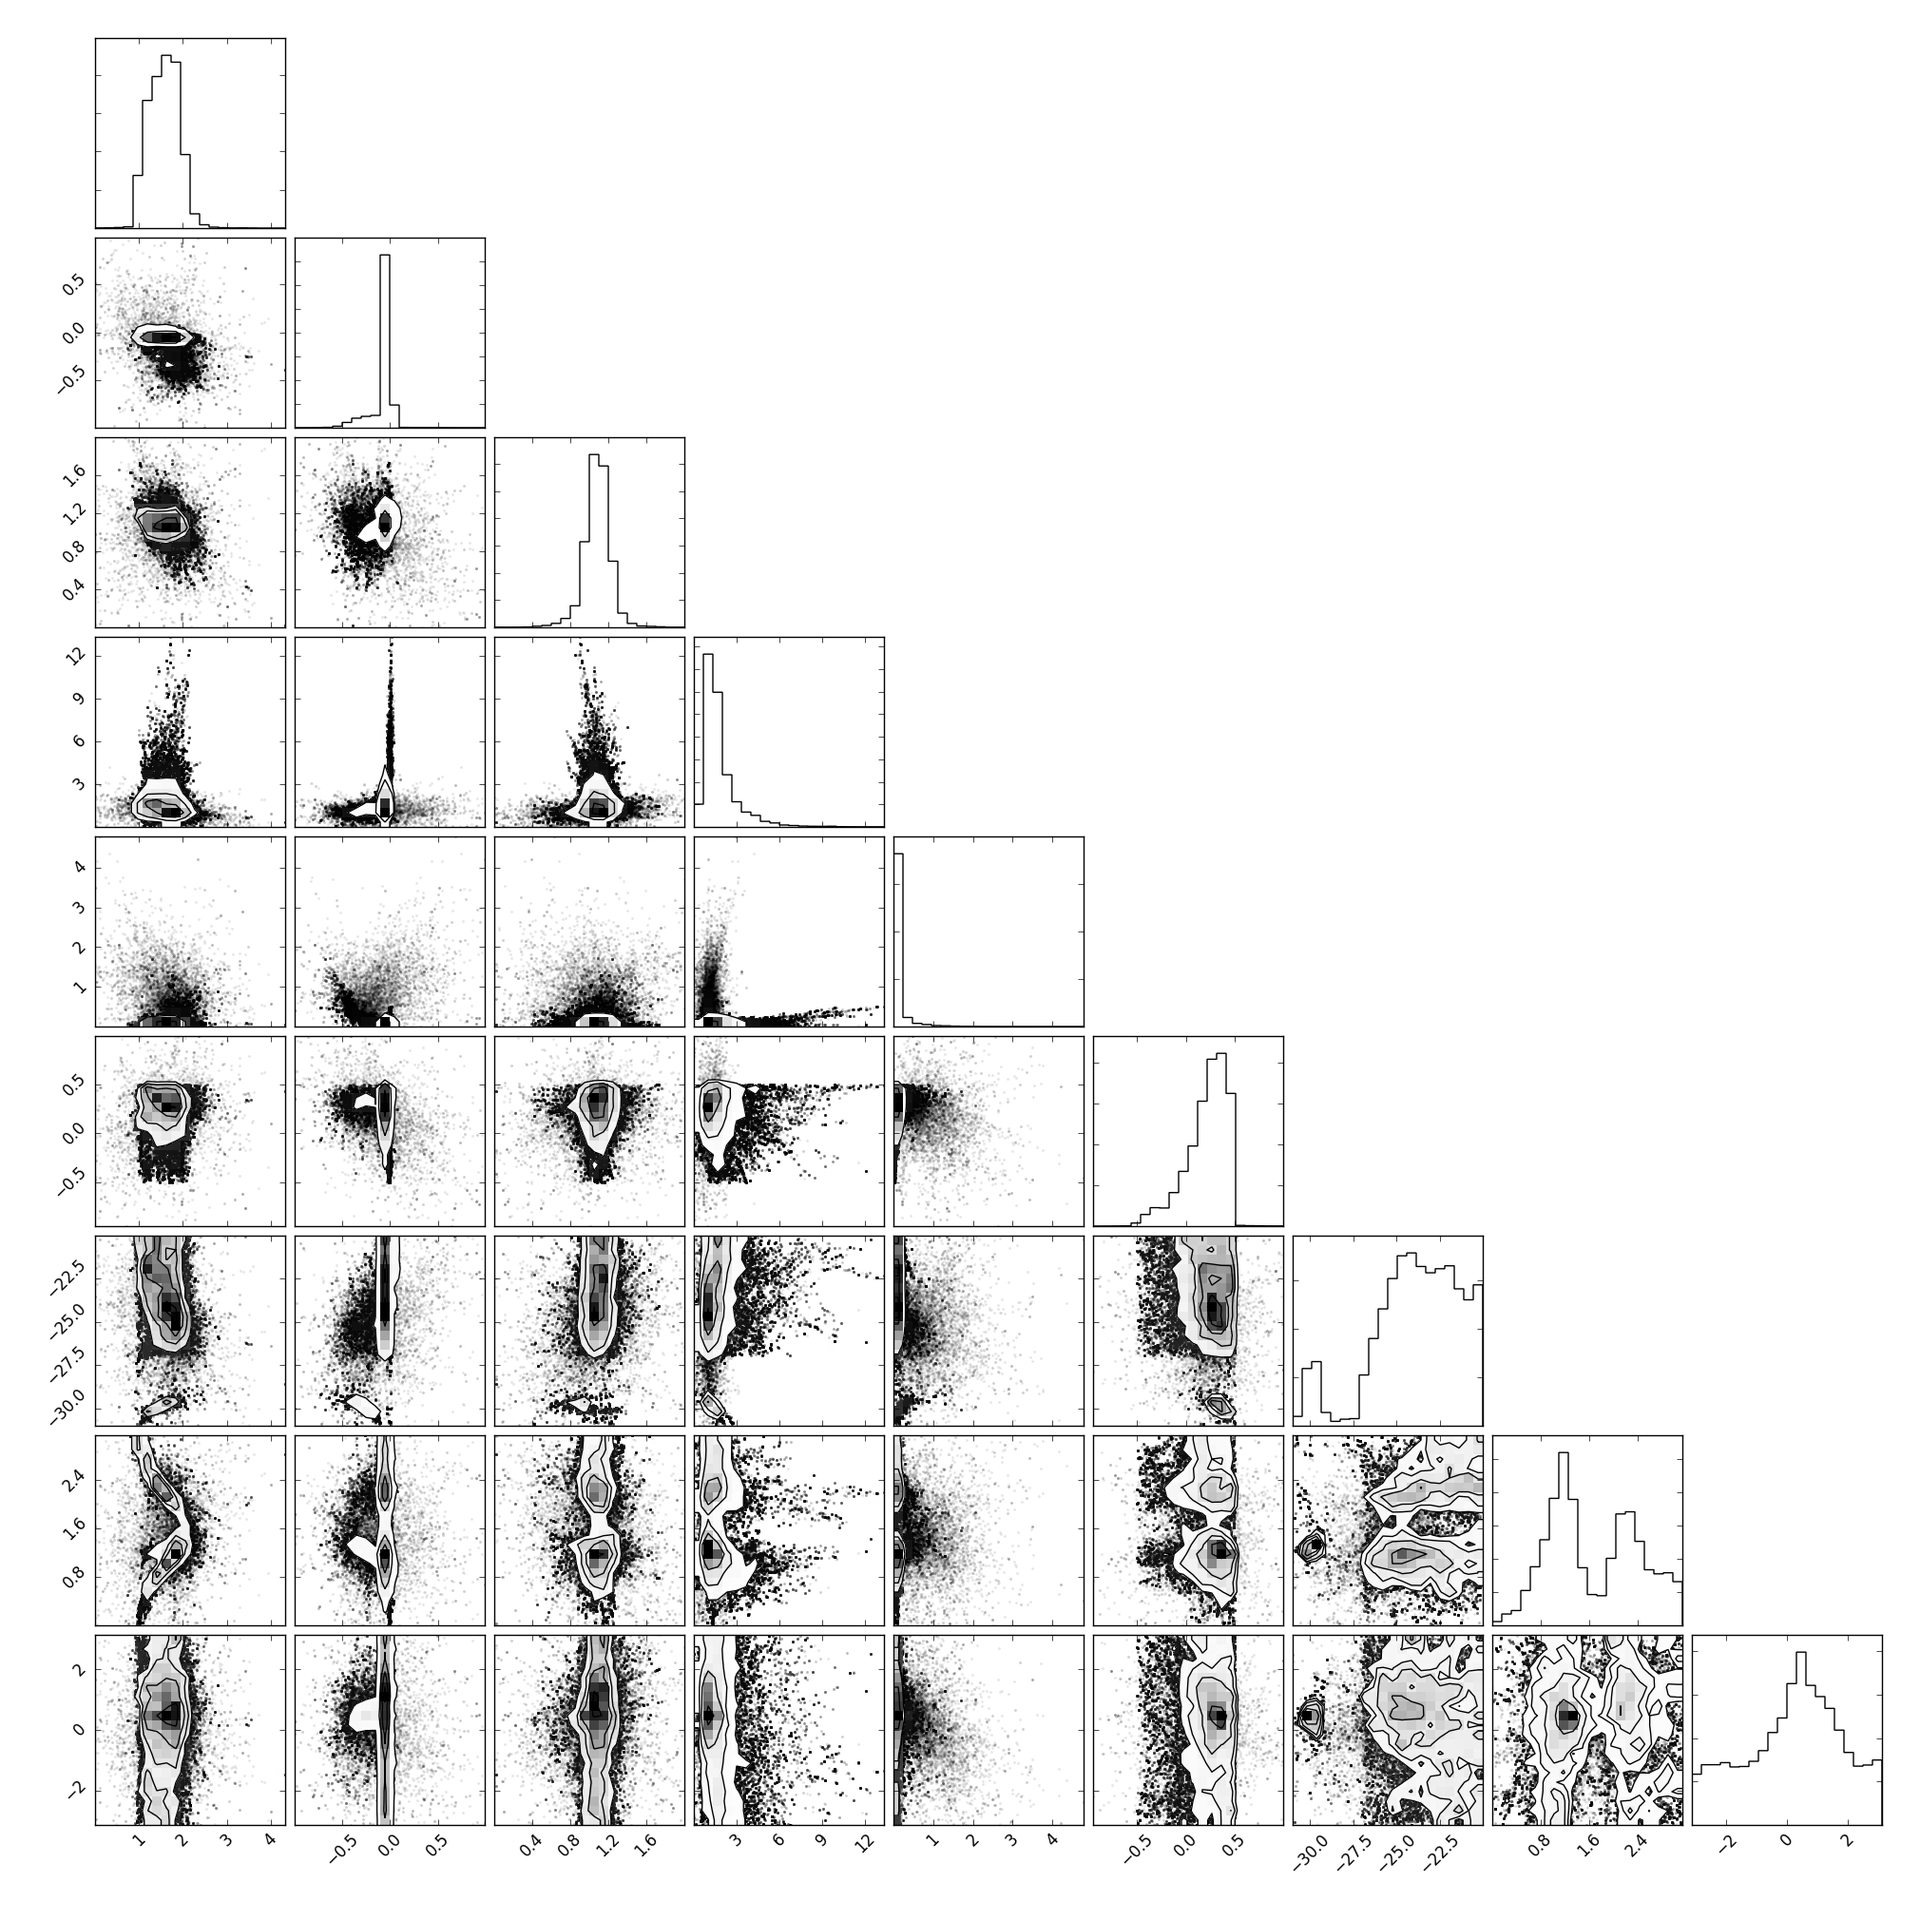
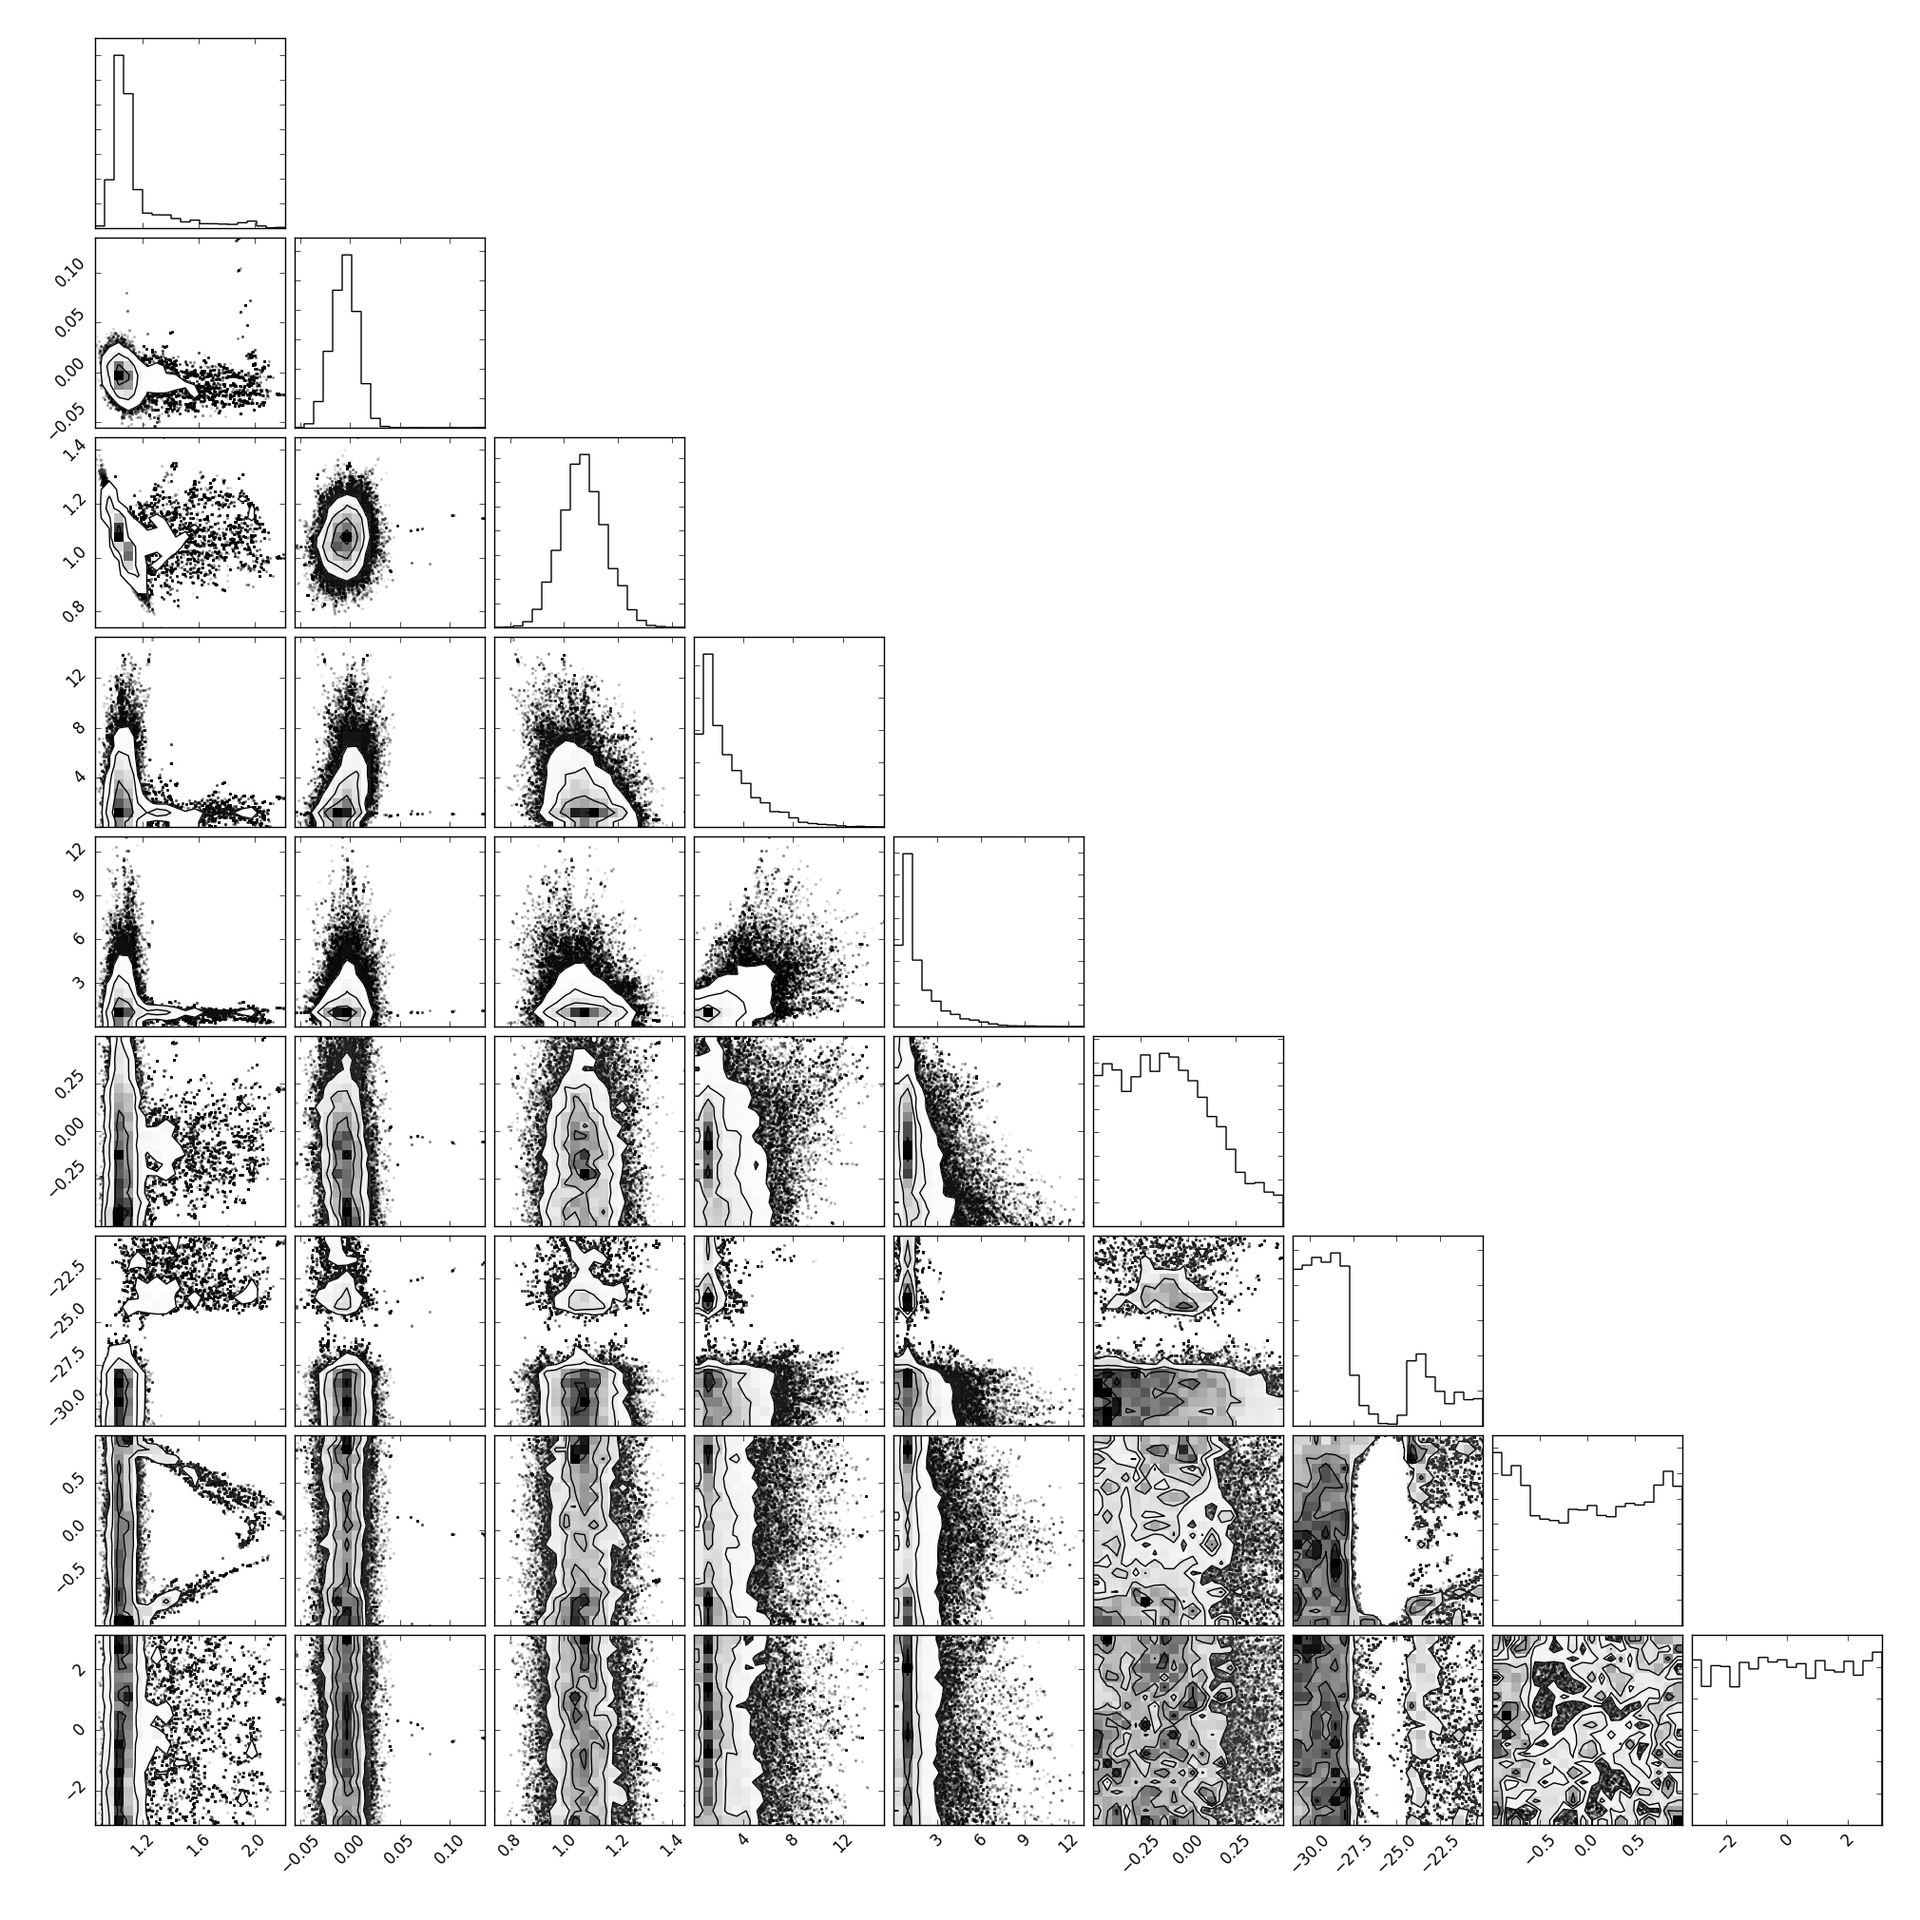
Tue May  9 02:15:51 BST 2017

Changed region(s): [[0.0312, 0.1248, 0.9045, 0.9668], [0.8109, 0.7797, 0.8421, 0.8109], [0.6238, 0.5614, 0.655, 0.5926]]

diff --git a/python/run_mcmc_full.py b/python/run_mcmc_full.py
@@ -17,10 +17,32 @@ pion_flux_path='/data/icecube/software/LVTools/data/pion_flux.h5'
 prompt_flux_path='/data/icecube/software/LVTools/data/prompt_flux.h5'
 output_file_path='/data/icecube/software/LVTools_package/LVTools/python/scan/output_'
 
+this = r'j'
+
 # constructing object
 lvsearch = lv.LVSearch(effective_area_path,events_path,chris_flux_path,kaon_flux_path,pion_flux_path,prompt_flux_path)
-lvsearch.SetEnergyExponent(2.)
+if this == r'a':
+    lvsearch.SetEnergyExponent(0.)
+if this == r'c':
+    lvsearch.SetEnergyExponent(1.)
+if this == r't':
+    lvsearch.SetEnergyExponent(2.)
+if this == r'g':
+    lvsearch.SetEnergyExponent(3.)
+if this == r's':
+    lvsearch.SetEnergyExponent(4.)
+if this == r'j':
+    lvsearch.SetEnergyExponent(5.)
 lvsearch.SetVerbose(False)
+
+terms = {
+    r'a': (-25, -18),
+    r'c': (-28, -24),
+    r't': (-33, -26),
+    r'g': (-38, -27),
+    r's': (-42, -30),
+    r'j': (-46, -33),
+}
 
 #calculate likelihood from c++
 def llhCPP(theta):
@@ -28,9 +50,15 @@ def llhCPP(theta):
     t = deepcopy(theta)
     # t[:-3] = np.array([1., 0., 1., 1. , 1. , 0.])
     t[-3] = np.power(10.,t[-3])
-    re = t[-3]*np.sin(t[-2])*np.cos(t[-1])
-    im = t[-3]*np.sin(t[-2])*np.sin(t[-1])
-    tr = t[-3]*np.cos(t[-2])
+
+    # re = t[-3]*np.sin(t[-2])*np.cos(t[-1])
+    # im = t[-3]*np.sin(t[-2])*np.sin(t[-1])
+    # tr = t[-3]*np.cos(t[-2])
+
+    re = t[-3]*np.sin(np.arccos(t[-2]))*np.cos(t[-1])
+    im = t[-3]*np.sin(np.arccos(t[-2]))*np.sin(t[-1])
+    tr = t[-3]*t[-2]
+
     t[-3:] = np.array([re, im, tr])
     output=lvsearch.llhFull(t)
     # print 'params ', theta
@@ -38,11 +66,15 @@ def llhCPP(theta):
     return -output
  
 def lnprior(theta):
-    normalization, cosmic_ray_slope, pik, prompt_norm, astro_norm, astro_gamma, rad, the, phi = theta
+    # normalization, cosmic_ray_slope, pik, prompt_norm, astro_norm, astro_gamma, rad, the, phi = theta
+    normalization, cosmic_ray_slope, pik, prompt_norm, astro_norm, astro_gamma, rad, costhe, phi = theta
+
     # if -30 < logRCmutau < -23 and -30 < logICmutau < -23 and -30 < logCmumu < -23 :
     #if -30 < logRCmutau < -23 and -30 < logICmutau < -23 and -30 < logCmumu < -23 \
     #        and 0.1 < normalization < 10 and -0.1 < cosmic_ray_slope < 0.1 and 0.1 < pik < 2.0 and 0 < prompt_norm < 10. and 0 < astro_norm < 10. and -0.5 <astro_gamma < 0.5:
-    if -31 < rad < -20 and 0 < the < np.pi and -np.pi < phi < np.pi and \
+
+    # if -31 < rad < -20 and 0 < the < np.pi and -np.pi < phi < np.pi and \
+    if -31 < rad < -20 and -1 < costhe < 1 and -np.pi < phi < np.pi and \
        0 < normalization < 5 and -1 < cosmic_ray_slope < 1 and \
        0 < pik < 2.0 and 0 < prompt_norm < 100. and 0 < astro_norm < 100. and \
        -1 <astro_gamma < 1:
@@ -73,8 +105,10 @@ betas = np.array([1e0,1e-1,1e-2,1e-3,1e-4])
 # p0 = [p0_base + 0.1*np.random.rand(ndim) for i in range(nwalkers)]
 p0_base=[1., 0., 1., 1. , 1. , 0., -26.5, 0., 0.]
 p0_std = [0.3, 0.05, 0.1, 0.1, 0.1, 0.1, 2., 3., 3.]
+ranges = terms[this]
 p0 = np.random.normal(p0_base, p0_std, size=[ntemps, nwalkers, ndim])
-p0[:,:,-3:] = np.random.uniform(low=[-31, 0, -np.pi], high=[-20, np.pi, np.pi], size=[ntemps, nwalkers, 3])
+# p0[:,:,-3:] = np.random.uniform(low=[ranges[0], 0, -np.pi], high=[ranges[1], np.pi, np.pi], size=[ntemps, nwalkers, 3])
+p0[:,:,-3:] = np.random.uniform(low=[ranges[0], -1, -np.pi], high=[ranges[1], 1, np.pi], size=[ntemps, nwalkers, 3])
 # p0[:,:,-1] = (p0[:,:,-1] % 2*np.pi) - np.pi
 # p0[:,:,-2] = p0[:,:,-2] % np.pi
 
@@ -111,13 +145,13 @@ print sampler.acceptance_fraction
 print np.unique(samples[:,0]).shape
 
 # np.savetxt("chain_new_full.dat",samples)
-np.save("chain_full_t_nocut",samples)
+np.save("chain_full_8",samples)
 
-print 'Making plot'
-import matplotlib
-matplotlib.use('Agg')
-import corner
+# print 'Making plot'
+# import matplotlib
+# matplotlib.use('Agg')
+# import corner
 #fig = corner.corner(samples, labels=["$log(ReC_{\mu\tau})$", "$log(ImagC_{\mu\tau})$", "$log(C_{\mu\mu})$"])
-fig = corner.corner(samples)
-fig.savefig("/data/icecube/software/LVTools_package/LVTools/python/triangle_full_t_nocut.png")
+# fig = corner.corner(samples)
+# fig.savefig("/data/icecube/software/LVTools_package/LVTools/python/triangle_full_t_nocut.png")
 print 'DONE!'

diff --git a/inc/lv_search.h b/inc/lv_search.h
@@ -295,8 +295,8 @@ private:
   const unsigned int number_of_years = 2;
   const unsigned int histogramDims[3] = {neutrinoEnergyBins, cosZenithBins, energyProxyBins};
   const double minFitEnergy = 4.0e2;
-  // const double maxFitEnergy = 1.8e4;
-  const double maxFitEnergy = 1.8e4 * (1 + 0.2);
+  const double maxFitEnergy = 1.8e4;
+  // const double maxFitEnergy = 1.8e4 * (1 + 0.2);
   // const double maxFitEnergy = 1.8e4 * (1 - 0.2);
   // const double maxFitEnergy = 1.8e4 * (1 + 0.5);
   // const double maxFitEnergy = 1.8e4 * (1 - 0.5);

diff --git a/python/run.py b/python/run.py
@@ -41,7 +41,7 @@ if __name__ == '__main__':
 
     # constructing object
     lvsearch = lv.LVSearch(effective_area_path,events_path,chris_flux_path,kaon_flux_path,pion_flux_path,prompt_flux_path)
-    lvsearch.SetEnergyExponent(2.)
+    lvsearch.SetEnergyExponent(5.)
     lvsearch.SetVerbose(False)
 
     # #calculate likelihood from c++

diff --git a/python/run_spherical.py b/python/run_spherical.py
@@ -50,6 +50,8 @@ if __name__ == '__main__':
         lvsearch.SetEnergyExponent(3.)
     elif args.this == 's':
         lvsearch.SetEnergyExponent(4.)
+    elif args.this == 'j':
+        lvsearch.SetEnergyExponent(5.)
     lvsearch.SetVerbose(False)
 
     # #calculate likelihood from c++
